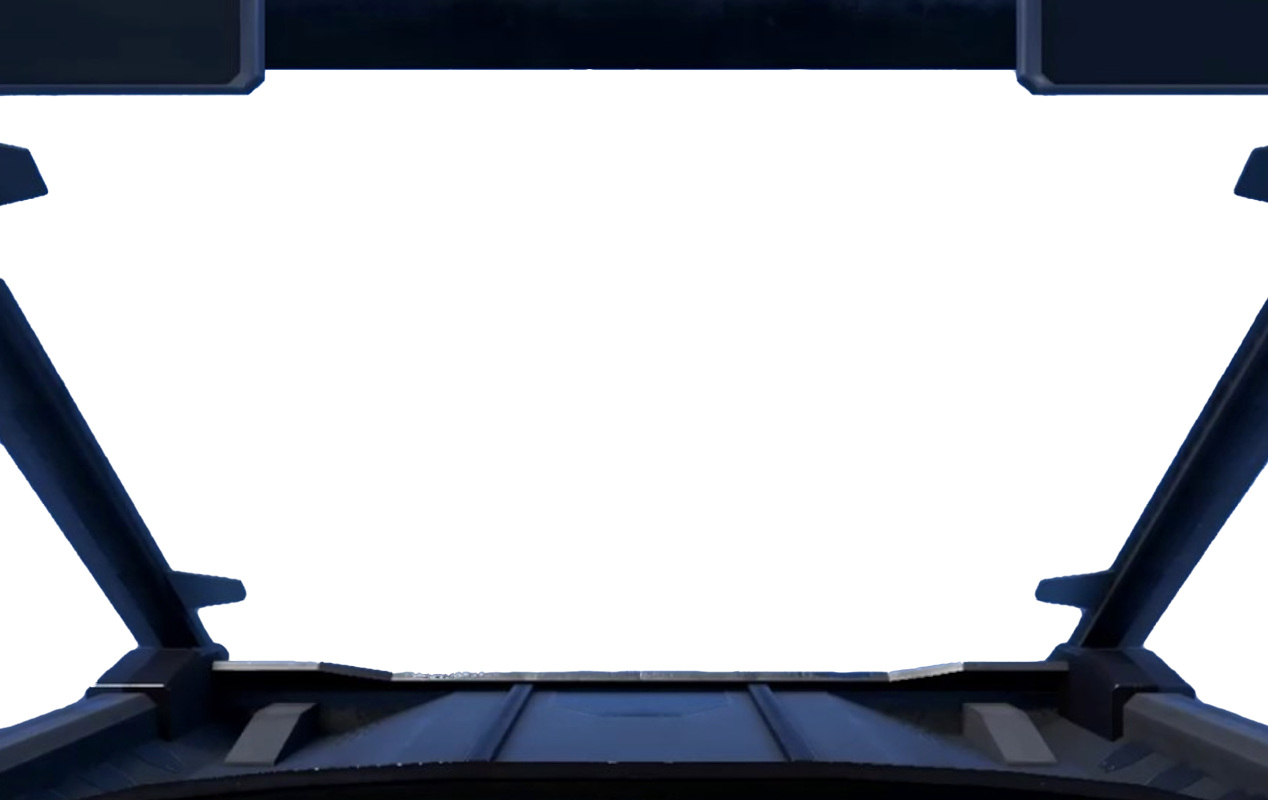
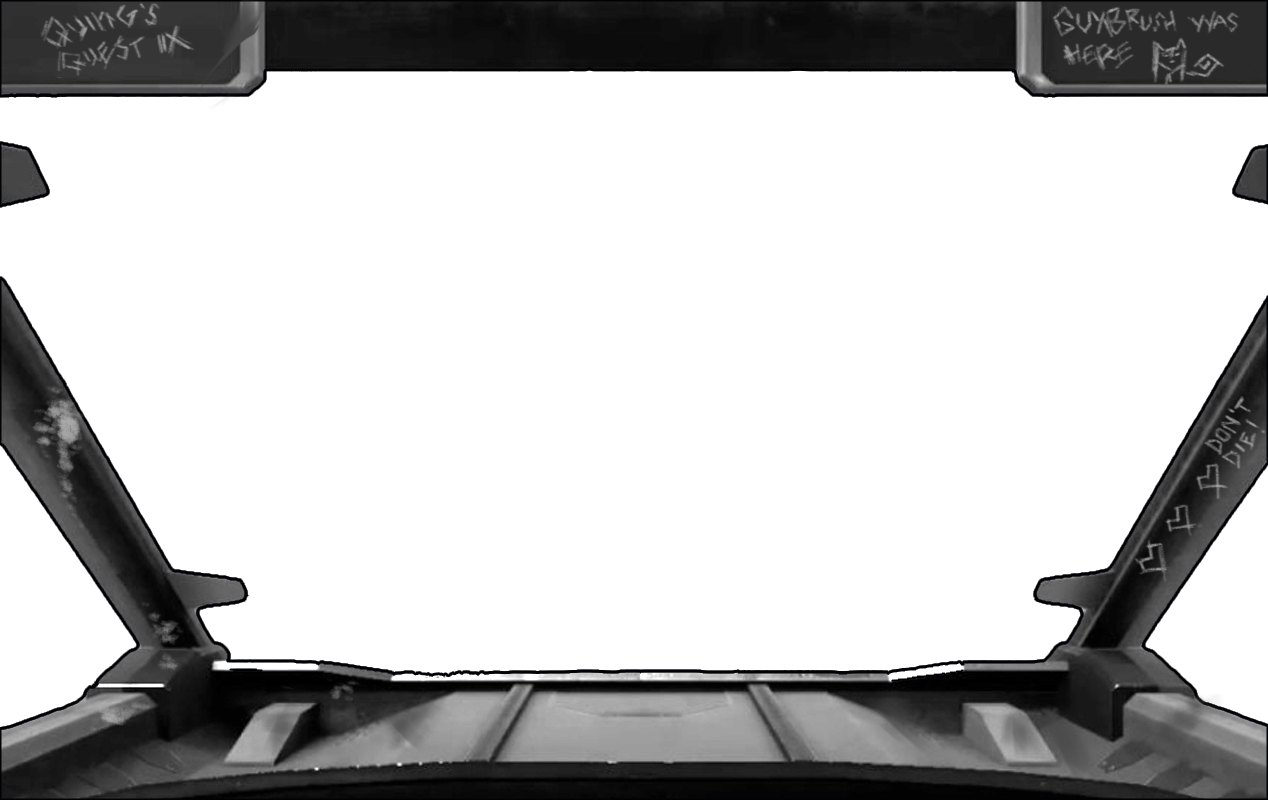
Added Jess's art assets

diff --git a/app.js b/app.js
@@ -1,6 +1,14 @@
 function rotateKnob(v)
 {
 	$("#knob").rotate(v);
+	if (v == 360)
+	{
+		$("#dial").val(0);
+	}
+	else if (v == 0)
+	{
+		$("#dial").val(360);
+	}
 }
 
 $(document).ready(function()
